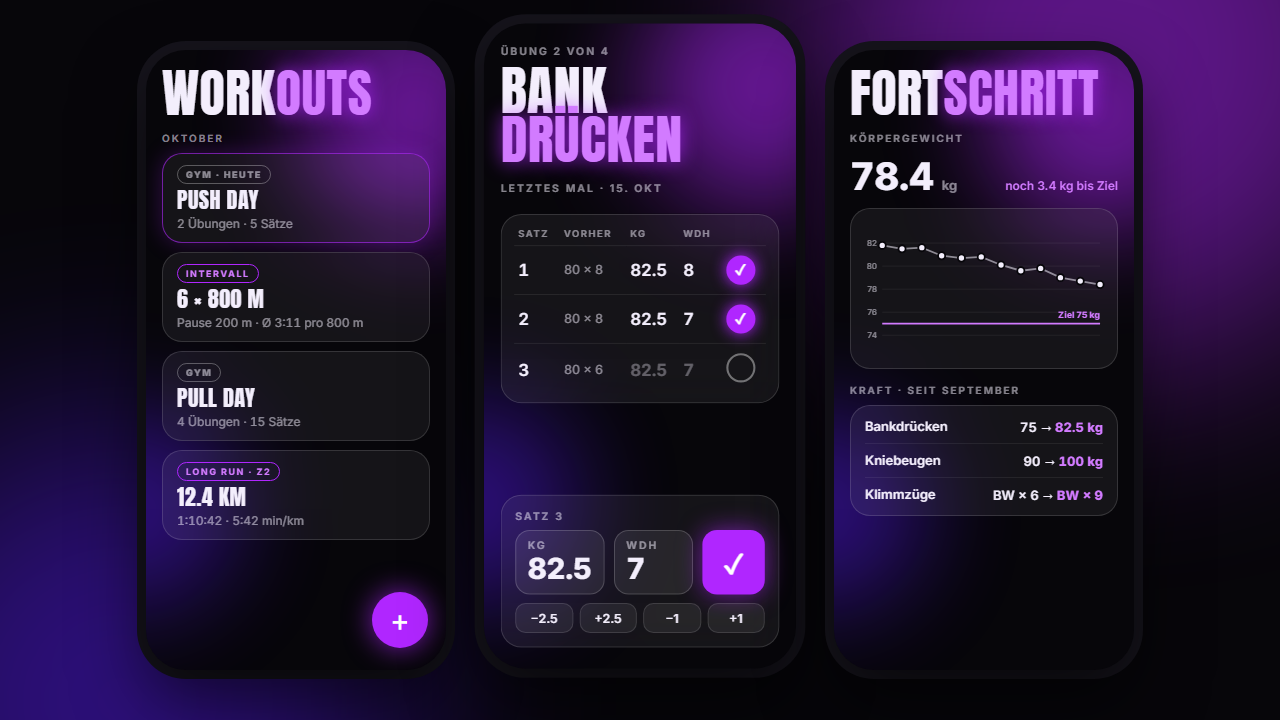
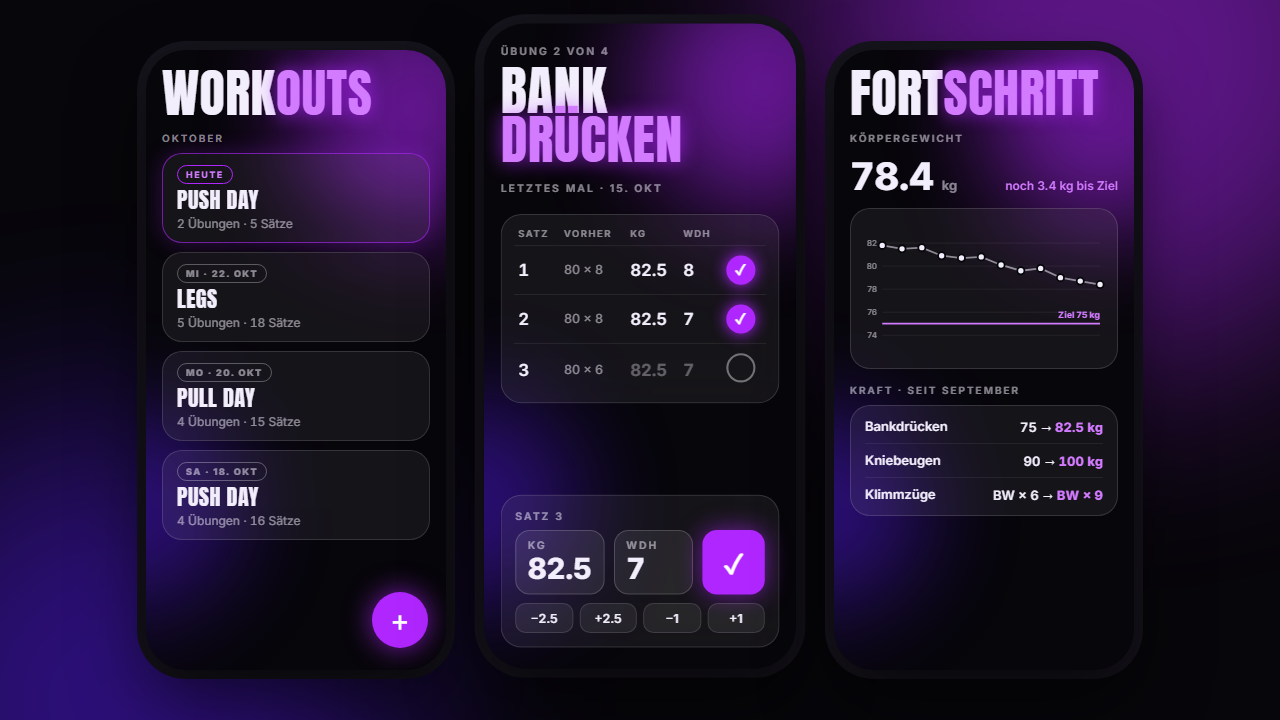
Drop runs from idea docs: app is strength training only

diff --git a/docs/design/readme/hero.html b/docs/design/readme/hero.html
@@ -76,10 +76,10 @@
   <div class="phone"><div class="screen">
     <div class="title">Work<span class="accent">outs</span></div>
     <div class="label" style="margin-top:6px">Oktober</div>
-    <div class="glass card today"><span class="tag gym">Gym · heute</span><div class="name">Push Day</div><div class="meta">2 Übungen · 5 Sätze</div></div>
-    <div class="glass card"><span class="tag">Intervall</span><div class="name">6 × 800 m</div><div class="meta">Pause 200 m · Ø 3:11 pro 800 m</div></div>
-    <div class="glass card"><span class="tag gym">Gym</span><div class="name">Pull Day</div><div class="meta">4 Übungen · 15 Sätze</div></div>
-    <div class="glass card"><span class="tag">Long Run · Z2</span><div class="name">12.4 km</div><div class="meta">1:10:42 · 5:42 min/km</div></div>
+    <div class="glass card today"><span class="tag">Heute</span><div class="name">Push Day</div><div class="meta">2 Übungen · 5 Sätze</div></div>
+    <div class="glass card"><span class="tag gym">Mi · 22. Okt</span><div class="name">Legs</div><div class="meta">5 Übungen · 18 Sätze</div></div>
+    <div class="glass card"><span class="tag gym">Mo · 20. Okt</span><div class="name">Pull Day</div><div class="meta">4 Übungen · 15 Sätze</div></div>
+    <div class="glass card"><span class="tag gym">Sa · 18. Okt</span><div class="name">Push Day</div><div class="meta">4 Übungen · 16 Sätze</div></div>
   </div><div class="fab">+</div></div>
 
   <div class="phone mid"><div class="screen">

diff --git a/docs/ideen-roadmap.md b/docs/ideen-roadmap.md
@@ -13,7 +13,7 @@ Stand: 22. Oktober 2026
 ## Themen
 
 1. [x] **Restliche Screens im neuen Stil:** Workout-Liste, Neues Workout, Workout-Details, Übung wählen → [design/screens.html](design/screens.html). Entwurf gefällt. Ausdrücklich gewünscht: letzter Satz unter jeder Übung in der Auswahl. Offen: Wochen-Leiste, Namens-Chips, PR-Rand.
-2. [x] **Lauf-Screens** (Entwurf passt so, Pause bewusst in Metern) → [design/laufen.html](design/laufen.html). Felix macht kein Hyrox-Training, sondern läuft: Intervalle, Long Run (Zone 2), kurzer schneller Lauf. Details trackt Strava, die App braucht nur das Wesentliche: Distanz, Dauer oder Pace (der dritte Wert wird berechnet), optional Zone. Bei Intervallen zählen Anzahl, Intervall-Distanz und Pausen-Distanz.
+2. [x] ~~**Lauf-Screens**~~ **Entscheid 26. Okt 2026: Läufe werden nicht gespeichert.** Die App ist nur fürs Krafttraining. Entwurf bleibt als Archiv, wird nicht umgesetzt. (Vorher: Entwurf passt so, Pause bewusst in Metern) → [design/laufen.html](design/laufen.html). Felix macht kein Hyrox-Training, sondern läuft: Intervalle, Long Run (Zone 2), kurzer schneller Lauf. Details trackt Strava, die App braucht nur das Wesentliche: Distanz, Dauer oder Pace (der dritte Wert wird berechnet), optional Zone. Bei Intervallen zählen Anzahl, Intervall-Distanz und Pausen-Distanz.
    - **Offene Frage für die Haupt-Session:** Phase 4 (Hyrox) in `PLAN.md` passt nicht zum eigenen Training. Ersetzen oder streichen?
 3. [x] **Fortschritt-Screen** (Graph passt so; Wunsch: Ziel-Linie nie am Rand, y-Achse oben und unten mit Luft) → [design/fortschritt.html](design/fortschritt.html). Kein Graph pro Übung nötig, Kraft als einfache Zeilen („Bankdrücken 75 → 82.5 kg“).
    - **Neue Idee (nicht in `PLAN.md`):** Körpergewicht 1× pro Woche eintragen, Graph mit violetter Ziel-Linie. Richtung egal (ab- oder zunehmen), die Punkte laufen auf die Linie zu. Datenmodell: Tabelle mit Datum + kg, dazu ein Zielgewicht. → Issue #18.
@@ -37,4 +37,4 @@ Stand: 22. Oktober 2026
 
 ## Wo wir stehen
 
-Alle 8 Themen erledigt. Offen: App-Name. Gewichts-Indikator als Entwurf festgehalten.
+Alle 8 Themen erledigt. Offen: App-Name. Entscheid: keine Läufe in der App (nur Krafttraining). Gewichts-Indikator als Entwurf festgehalten.

diff --git a/docs/design/readme/README-entwurf.md b/docs/design/readme/README-entwurf.md
@@ -10,7 +10,7 @@
 <h1 align="center">[APP-NAME]</h1>
 
 <p align="center">
-  An offline Android app to log strength training and runs. Built in Python.
+  An offline Android app to log strength training. Built in Python.
 </p>
 
 <p align="center">
@@ -35,7 +35,7 @@ I used to log my workouts in a text file. It worked, but I never saw what I lift
 ## Features
 
 - **Log a set in one tap.** Every set is prefilled with what you did last time. Same weight? Tap ✓. A bit more? +2.5 kg.
-- **Runs, too.** Long runs, fast runs and intervals (e.g. 6 × 800 m). Enter two of distance, time and pace, the app calculates the third.
+- **Remind yourself.** Felt too easy? Tap ▲ and next time the app reminds you to go up in weight (▼ to go down).
 - **See progress.** Strength as simple before → after numbers, bodyweight as a chart with your goal line.
 - **New record?** The app notices. And asks if you mistyped first.
 - **Offline, no account.** Everything lives in one SQLite file on your phone. Export to CSV anytime.
@@ -63,7 +63,7 @@ The one rule that shapes the code: **logic and UI are strictly separated.**
 
 ```
 src/
-├── core/   models, database, calculations (records, pace, volume)
+├── core/   models, database, calculations (records, volume)
 │           never imports Flet, fully covered by tests
 └── ui/     Flet screens only, calls core/, no business logic
 ```

diff --git a/docs/logging-ux.md b/docs/logging-ux.md
@@ -85,12 +85,16 @@ Empfehlung:
 
 ## Laufen (Phase 3)
 
+> **Hinfällig (26. Okt 2026):** Läufe werden nicht in der App gespeichert. Abschnitt bleibt nur als Archiv.
+
 - **Dauer als ein Ziffernfeld**, das automatisch formatiert: Eingabe `2530` wird zu `25:30`, `10512` wird zu `1:05:12`. Das ist schneller als getrennte Felder für h/min/s und viel schneller als ein Scroll-Rad. Wheel-only-Dauerpicker sind ein bekannter Beschwerdepunkt.
 - **Distanz** als Dezimalfeld in km, Komma erlaubt.
 - **Pace sofort live anzeigen**, während man tippt (`5:12 min/km`). Das ist gleichzeitig eine Plausibilitätskontrolle für Tippfehler.
 - Parser und Formatter für die Dauer gehören in `core/` und sind mit pytest getestet.
 
 ## Hyrox (Phase 4)
+
+> **Hinfällig:** Felix macht kein Hyrox-Training, und Läufe werden nicht gespeichert. Abschnitt bleibt nur als Archiv.
 
 Die Hyrox-Apps sind sich einig: **feste Struktur, ein Abschnitt nach dem anderen.**
 
